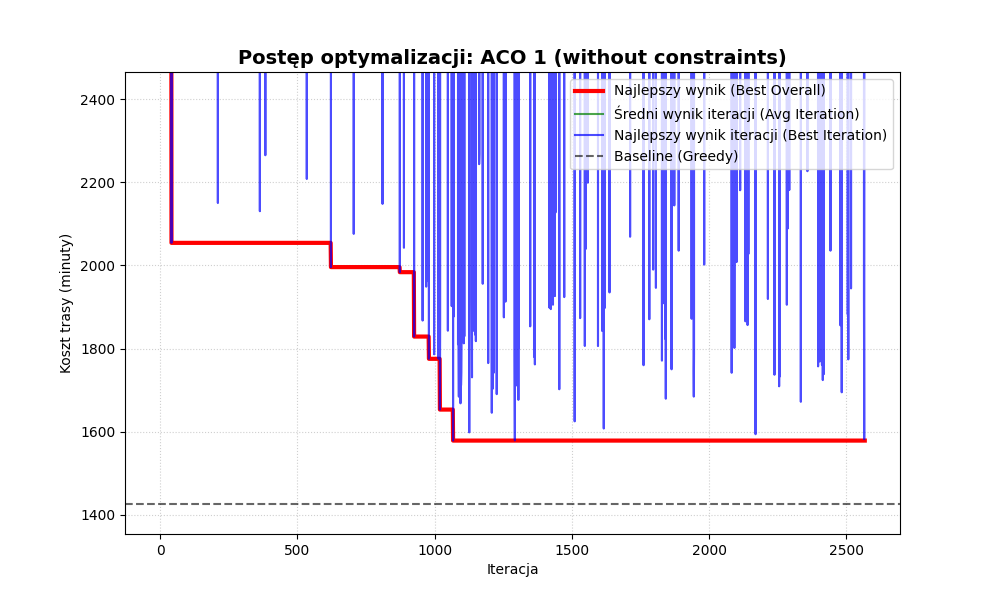
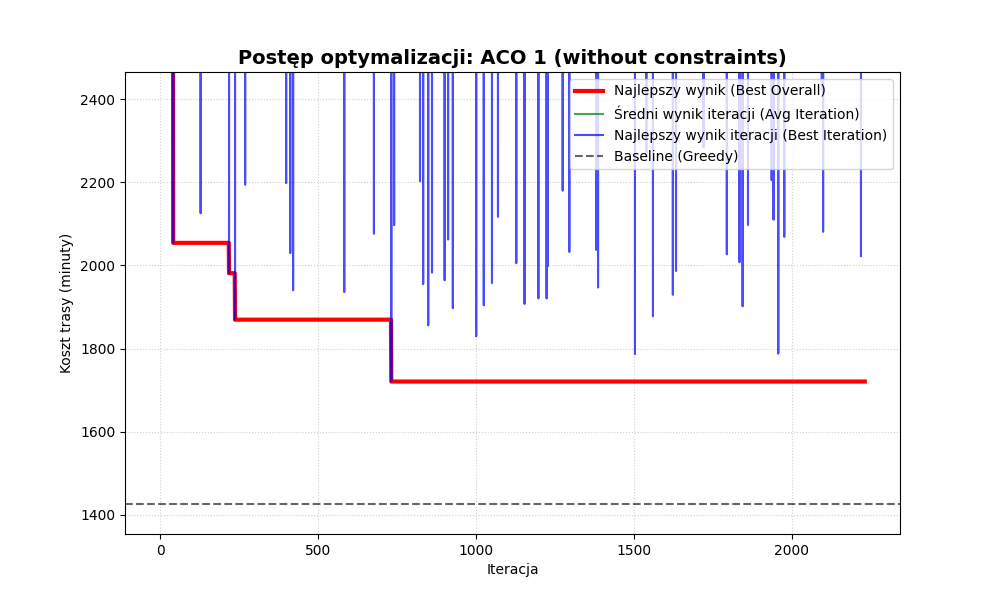
Poprawka funkcji update_pheromone_rank i jej wykorzytsania

diff --git a/VRP3/main.py b/VRP3/main.py
@@ -119,7 +119,7 @@ def main():
                        "patience": 1500, "patience_small_shake": 80, "patience_big_shake": 300,
                        "big_shake_evaporation": 0.4, "big_shake_duration": 20,
                        "intensity_small_shake": 0.1, "intensity_big_shake": 0.3,
-                       "intensity_elite_ant": 1.5, "ranked_ants_count": (3, 10),
+                       "intensity_elite_ant": 1.5, "ranked_ants_count": (3, 20),
                        "q_pheromone": 1000.0, "tau_min": 0.01, "tau_max": 10.0}
         },
         {
@@ -130,7 +130,7 @@ def main():
                        "patience": 1500, "patience_small_shake": 80, "patience_big_shake": 300,
                        "big_shake_evaporation": 0.4, "big_shake_duration": 20,
                        "intensity_small_shake": 0.1, "intensity_big_shake": 0.3,
-                       "intensity_elite_ant": 1.5, "ranked_ants_count": (3, 10),
+                       "intensity_elite_ant": 1.5, "ranked_ants_count": (3, 20),
                        "q_pheromone": 1000.0, "tau_min": 0.01, "tau_max": 10.0}
         },
         {
@@ -148,7 +148,7 @@ def main():
                        "patience": 1500, "patience_small_shake": 80, "patience_big_shake": 300,
                        "big_shake_evaporation": 0.4, "big_shake_duration": 20,
                        "intensity_small_shake": 0.1, "intensity_big_shake": 0.3,
-                       "intensity_elite_ant": 1.5, "ranked_ants_count": (3, 10),
+                       "intensity_elite_ant": 1.5, "ranked_ants_count": (3, 20),
                        "q_pheromone": 1000.0, "tau_min": 0.01, "tau_max": 10.0}
         },
         {
@@ -159,7 +159,7 @@ def main():
                        "patience": 1500, "patience_small_shake": 80, "patience_big_shake": 300,
                        "big_shake_evaporation": 0.4, "big_shake_duration": 20,
                        "intensity_small_shake": 0.1, "intensity_big_shake": 0.3,
-                       "intensity_elite_ant": 1.5, "ranked_ants_count": (3, 10),
+                       "intensity_elite_ant": 1.5, "ranked_ants_count": (3, 20),
                        "q_pheromone": 1000.0, "tau_min": 0.01, "tau_max": 10.0}
         }
     ]
